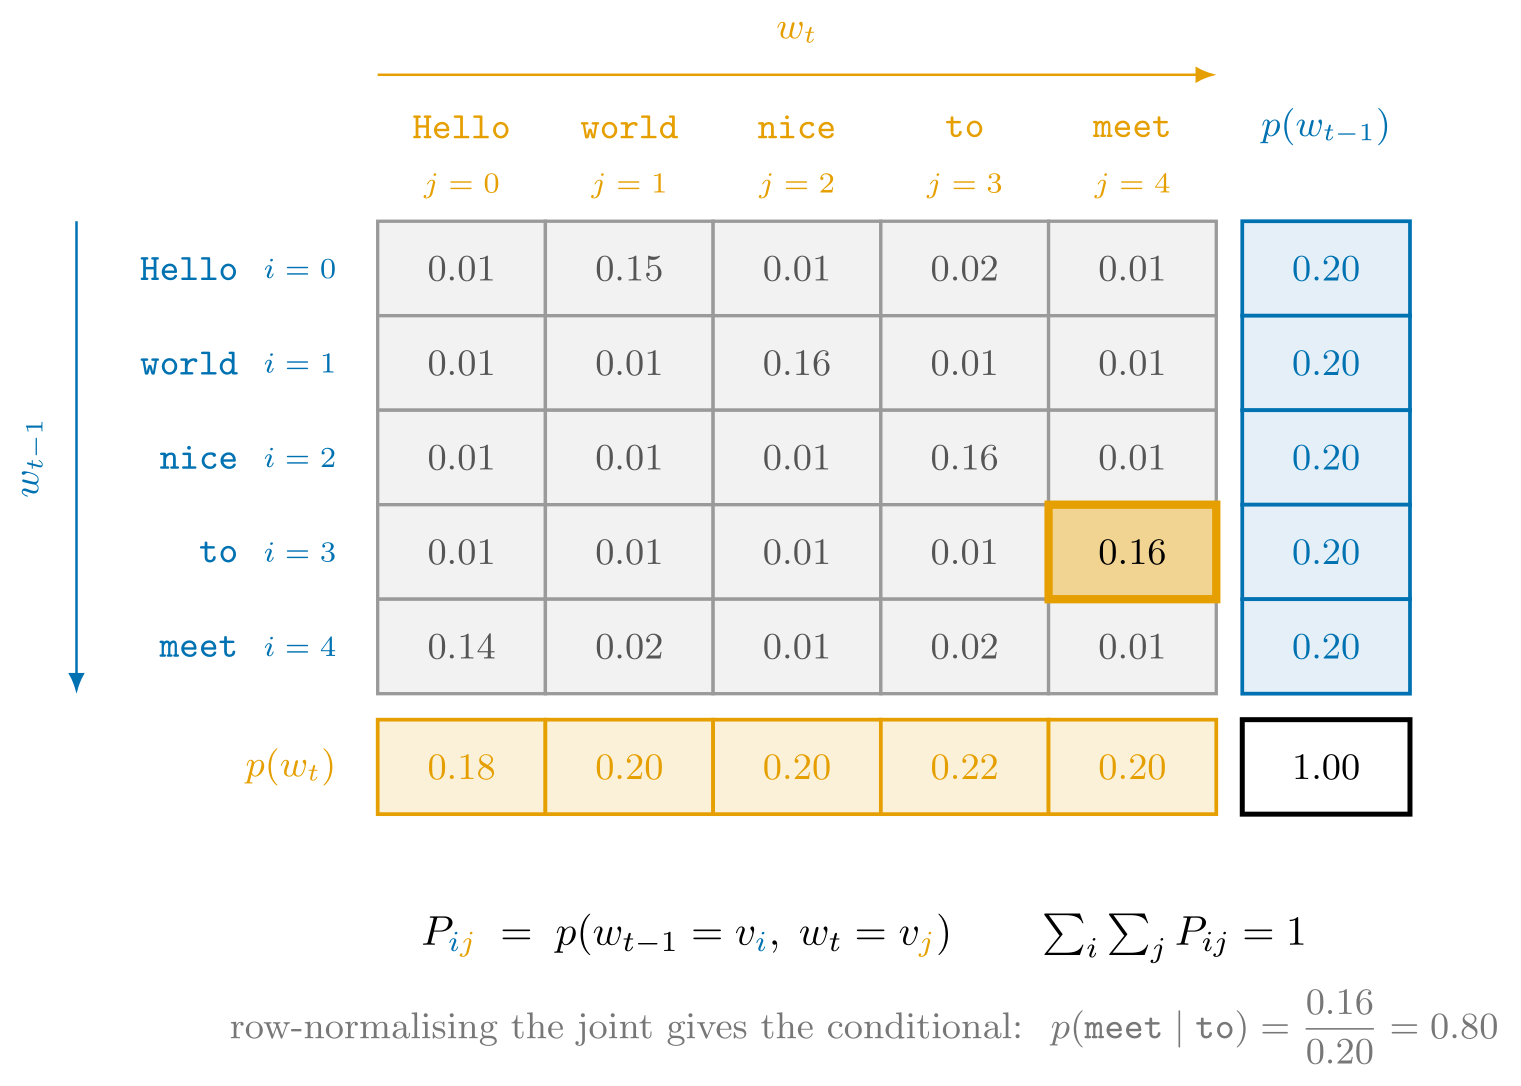
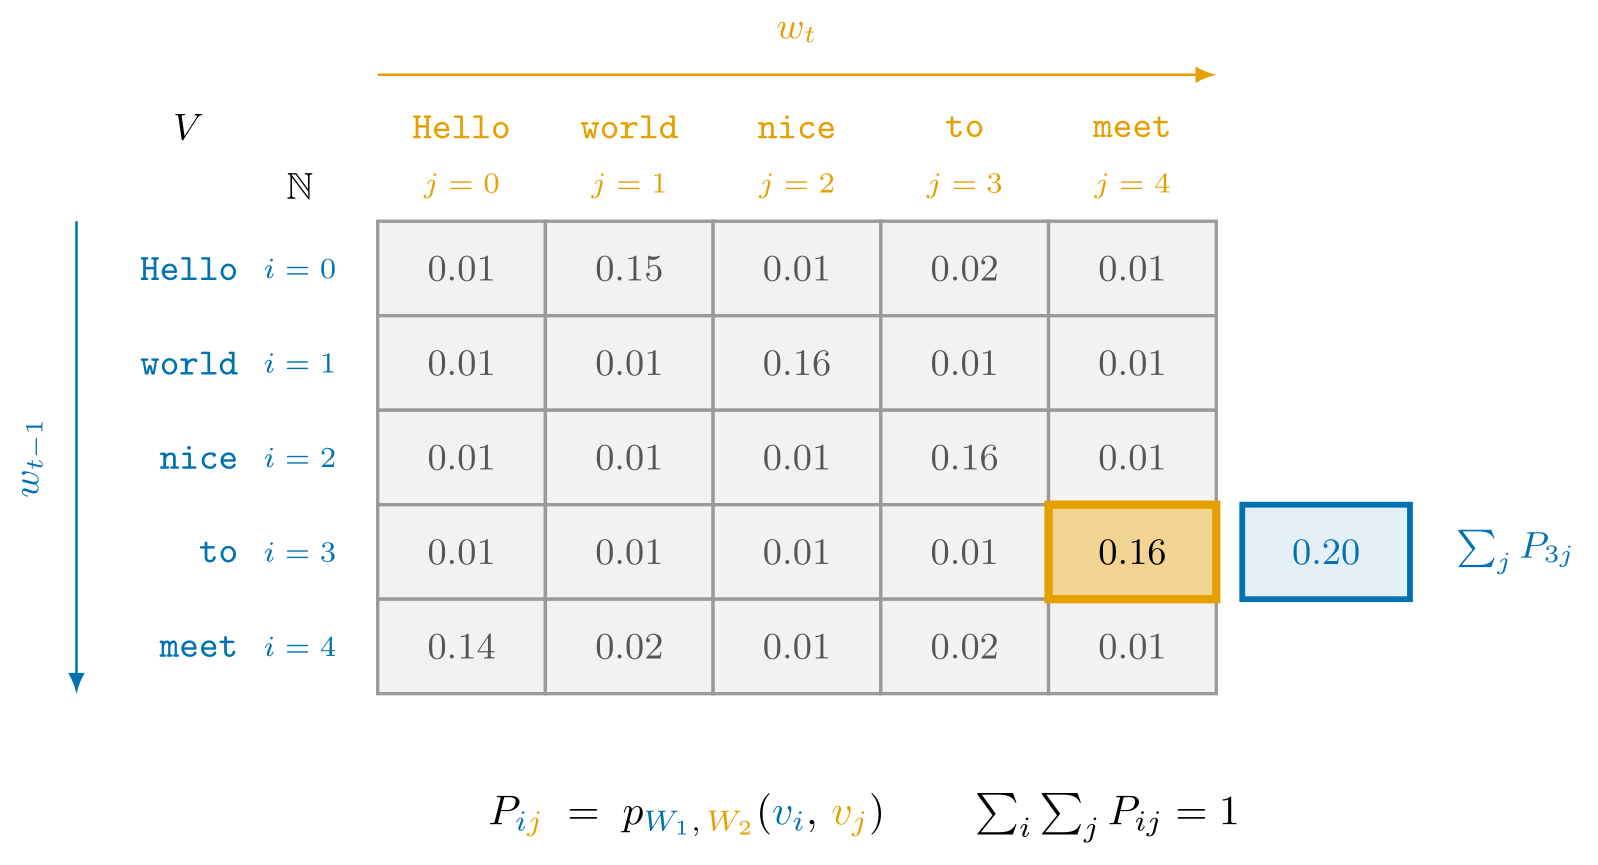
sitp: another pass to chapter 1.2.2 joint, marginal, and conditional

diff --git a/sitp/theme/css/custom.css b/sitp/theme/css/custom.css
@@ -755,16 +755,22 @@ html.ayu img.conditional {
   content: url("../../assets/conditional_dark.png");
 }
 
-html.coal img.jointsurf,
-html.navy img.jointsurf,
-html.ayu img.jointsurf {
-  content: url("../../assets/jointsurf_dark.png");
+html.coal img.jointbars,
+html.navy img.jointbars,
+html.ayu img.jointbars {
+  content: url("../../assets/jointbars_dark.png");
 }
 
 html.coal img.jointmatrix,
 html.navy img.jointmatrix,
 html.ayu img.jointmatrix {
   content: url("../../assets/jointmatrix_dark.png");
+}
+
+html.coal img.jointmatrixmarginal,
+html.navy img.jointmatrixmarginal,
+html.ayu img.jointmatrixmarginal {
+  content: url("../../assets/jointmatrixmarginal_dark.png");
 }
 
 html.coal img.neuron,

diff --git a/sitp/src/1.md b/sitp/src/1.md
@@ -492,15 +492,17 @@ In some sense that's all there is to large language models.
 
 - [1.2 Next Token Prediction is Classification](#12-next-token-prediction-is-classification)
   - [1.2.1 The Estimation of Software 2.0](#121-the-estimation-of-software-20)
-  - [1.2.2 Counting Markov Biased Histograms](#122-counting-markov-biased-histograms)
-  - [1.2.3 Some More on Maximum Likelihood Estimation](#133-optimizing-loss-with-iterative-reweighted-least-squares)
-  - [1.2.3 Prediction is Compression is Intelligence]()
-  - [1.2.4 Evaluation with Perplexity, and Bias-Variance Tradeoff]()
-  - [1.2.5 Further Viewing and Reading]()
+  - [1.2.2 The Joint, Marginal, and Conditional]()
+  - [1.2.3 Counting Markov Biased Histograms](#122-counting-markov-biased-histograms)
+  - [1.2.4 Some More on Maximum Likelihood Estimation](#133-optimizing-loss-with-iterative-reweighted-least-squares)
+  - [1.2.5 Prediction is Compression is Intelligence]()
+  - [1.2.6 Evaluation with Perplexity, and Bias-Variance Tradeoff]()
+  - [1.2.7 Further Viewing and Reading]()
 
 </div>
 
 #### 1.2.1 The Estimation of Software 2.0
+<small>[$\hookleftarrow$ Table of Contents (§1.2 Next Token Prediction is Classification)](#12-next-token-prediction-is-classification-and-compression)</small>
 
 <br>
 
@@ -625,8 +627,8 @@ Whatever you want to call them, at the heart of statical learning, machine learn
 <!-- > [!WARNING]
 > <img class="owl" src="./assets/owl.png" alt="" style="float: left; width: 100px; margin: 0 1em 0.5em 0;"> (todo, also add the two culture parsing/interpretation of the term.) Inference is an overloaded term, and hence ambiguous without context! In generative AI the term inference refers to the forward process of evaluating a population's distribution $p(w|\mathbf{h})$ in order to generate samples via prediction. In classical statistics the term inference refers to the backward process of inferring a population's distribution from observed samples (todo estimation and hypothesis testing). Unfortunately terminology and jargon is just like syntax with programming languages! You will need to adjust the meaning of symbols depending on the context, which to foreshadow is precisely what the attention mechanism behind GPT-2's transformer architecture ends up achieving. <br style="clear: both;"> -->
 
-#### 1.2.2 Counting Markov Biased Histograms
-
+#### 1.2.2 The Joint, Marginal, and Conditional
+<small>[$\hookleftarrow$ Table of Contents (§1.2 Next Token Prediction is Classification)](#12-next-token-prediction-is-classification-and-compression)</small>
 
 <br>
 
@@ -646,7 +648,7 @@ denotes the conditional probability of t+1'th word given the previous t words.
 Let us first start by generalizing the notion of a distribution from a *flat* array of real-valued numbers satisfying non-negativity and normalization to that of a *multidimensional* array with the same kind of values, known as a
 **joint distribution**<span class="defnote" data-refine="distribution">**joint distribution**</span> denoted by $p_{X_1, \dots, X_t}$ with type $p_{X_1, \dots, X_t}: \reals \times \cdots \times \reals \to [0,1]$ which maps the values of $t$ random variables to their probabilities<span class="sidenote-number"></span><span class="sidenote">*As we will see shortly, we use $t$ for time since language has a sequential order, given that $n$ already denotes the length of the dataset $d:=\{(x^{(i)}, y^{(i)})\}_{i=0}^{n}$. Naming is hard!*</span>. That is, evaluating $p_{X_1, \dots, X_t}(x_1, \dots, x_t)$ produces a *single* probability for random variable $X_1$ taking on the value $x_1$ *and* $X_2$ taking on the value $x_2$ *and* so on, up until the random variable $X_t$ taking on the value $x_t$ — the commas are read as "and" (todo, better explanation?). Because the joint can be a distribution of two random variables, three, up to an arbitrary t, it's often vectorized as $p_{\mathbf{X}}(\mathbf{x})$.
 
-In the case of (probabilistic) language modeling, the primary joint distribution of interest is the probability of a *fixed* t lengthed sentence occuring, which is $p_{W1,W2,\dots,W_t}(w_1,w_2,\dots,w_t)$ or $p(\mathbf{w})$  with $w \in \reals^{t}$, where the $W_i$'th random variable represents the $i$'th word in the $t$-lengthed sentence. For instance, $p(w_1=\text{Hello}, w_2=\text{nice}, w_3=\text{to}, w_4=\text{meet}, w_5=\text{you})$ is the probability of the complete sentence `"Hello nice to meet you"`.
+In the case of (probabilistic) language modeling, the primary joint distribution of interest is the probability of a *fixed* t lengthed sentence occuring, which is $p_{W1,W2,\dots,W_t}(w_1,w_2,\dots,w_t)$ or $p(\mathbf{w})$  with $w \in \reals^{t}$, where the $W_i$'th random variable represents the $i$'th word in the $t$-lengthed sentence. For instance, $p(w_1=\text{Hello}, w_2=\text{nice}, w_3=\text{to}, w_4=\text{meet}, w_5=\text{you})$ is the probability of the complete sentence `"Hello nice to meet you"` (todo, instead of distribution over words, it's a distribtion over sentences).
 
 > [!WARNING]
 > <img class="owl" src="./assets/owl.png" alt="" style="float: left; width: 100px; margin: 0 1em 0.5em 0;"> Note with the random variables being modeled the way they are (that is, *with* order) that the joint $p(w_1,\dots, w_t)$ is commutative. For instance, with $n:=2$, $p(\cin{w_1}, \cout{w_2}) = p(\cout{w_2},\cin{w_1})$. For instance, semantically speaking, $p(\cin{w_1}=\text{Hello},\cout{w_2}=\text{world})=p(\cout{w_2}=\text{world}, \cin{w_1}=\text{Hello})$ is saying that the probability of the first word being "hello" and the second word being "world" is equal to the probability of the second word being "world" and the first word being "hello". This holds more generally for any permutation of $w_1, w_2, \dots, w_t$. <br style="clear: both;">
@@ -672,49 +674,40 @@ In Figure 1.2.3, the surface on the left and the matrix on the right represent t
 
 <div class="full-bleed">
 <div class="dual">
-  <img class="jointsurf" src="./assets/jointsurf.png" alt="" style="display: block; margin: 0 auto;">
+  <img class="jointbars" src="./assets/jointbars.png" alt="" style="display: block; margin: 0 auto;">
   <img class="jointmatrix" src="./assets/jointmatrix.png" alt="" style="display: block; margin: 0 auto;">
 </div>
 </div>
 
 <small>Figure I.2.3</small>
 
-<!-- {{#nb 1.2_bigram.ipynb:10}} -->
+For a single random variable $W_i$, we can see that the truth of it's state is indeed distributed across the vocabulary $V$. For instance, scanning the <span class="okabe-blue">blue arrow from top to bottom</span>, we see that state of random variable $\cin{W_1}$ is distributed across five words. In particular, for one of those values $i=3$ which corresponds to $\text{to}$, it's state in of itself is distributed across $\cout{W_2}$ with the <span class="okabe-orange">orange arrow from left to right</span>. For instance, the chance of `"to meet"`should be more likely than `"to to"`.
+The code for this joint is the transliteration of the matrix from Figure I.2.3 into `np.ndarray` with `.shape`of `(5,5)` (todo, curry by indexing into first or second):
 
-For a single random variable $W_i$, we can see that the truth of it's state is indeed distributed across the vocabulary $V$. For instance, scanning the <span class="okabe-blue">blue arrow from top to bottom</span>, we see that state of random variable $\cin{W_1}$ is distributed across five words. In particular, for one of those values $i=0$ which corresponds to $\text{Hello}$, it's state in of itself is distributed across $\cout{W_2}$ with the <span class="okabe-orange">orange arrow from left to right</span>. For instance, the chance of `"Hello world"`should be more likely than `"Hello Hello"`.
+{{#nb 1.2_bigram.ipynb:8}}
 
 From this joint distribution of two random variables $p_{\cin{W_1}, \cout{W_2}}$, we can *recover* both distributions of single random variables $p_{\cin{W_1}}$ and $p_{\cout{W_2}}$.
-Consider again that second "level" of distribution. That is, the specific state of $W_1=\text{Hello}$ being distributed in of itself across the first row of the matrix. We can "take out" the randomness of $\cout{W_2}$ by *summing* all the entries in the first row, and are no longer have this second level or axis of state being distributed, and are simply left with $p_{\cin{W_1}}(\text{Hello})=0.2$. In general, for any $v_i$, we have that $p_{\cin{W_1}}({\cin{v_i}})=\sum\limits_{v_j \in V}p_{\cin{W_1}, \cout{W_2}}(\cin{v_i},\cout{v_j})$. Note that $\cin{v_i}$ is fixed! In the context of recovering a distribution of a single random variable *from* a joint distribution, such single random variable distribution is referred to as the **marginal distribution**<span class="defnote">**marginal distribution**</span>.
+Consider again that second "level" of distribution. That is, the specific state of $W_1=\text{Hello}$ being distributed in of itself across the first row of the matrix. We can "take out" the randomness of $\cout{W_2}$ by *summing* all the entries in the first row, and are no longer have this second level or axis of state being distributed, and are simply left with $p_{\cin{W_1}}(\text{to})=0.2$. In general, for any $v_i$, we have that $p_{\cin{W_1}}({\cin{v_i}})=\sum\limits_{v_j \in V}p_{\cin{W_1}, \cout{W_2}}(\cin{v_i},\cout{v_j})$. Note that $\cin{v_i}$ is fixed! In the context of recovering a distribution of a single random variable *from* a joint distribution, such single random variable distribution is referred to as the **marginal distribution**<span class="defnote">**marginal distribution**</span>.
 
+<img class="jointmatrixmarginal" src="./assets/jointmatrixmarginal.png" alt="" style="display: block; margin: 0 auto;">
 
-And because Figure I.2 is a table of numbers, it is also an `np.ndarray` with `.shape` `(V,V)`,
-where marginalizing is `.sum()` along an axis and conditioning is a division:
-
-<!-- {{#nb 1.2_bigram.ipynb:8}}
+(todo: generalize for $t$ randvars) [`torch.sum`](https://docs.pytorch.org/docs/2.13/generated/torch.sum.html#torch.sum)
 
 {{#nb 1.2_bigram.ipynb:9}}
 
-A table is not the only way to see it. Where a distribution over *one* variable plots as a
-curve over its state space — the bar chart of GPT-2's next-word distribution in
-[§1.1](#11-from-certain-to-uncertain-knowledge) — a distribution over *two* plots as a curve over a two dimensional
-state space, which is to say a surface. Conditioning on $\cin{H}=\cin{h}$ is then a *cut* through
-that surface: fix $w_{t-1}$, sweep $w_t$, and read off the height. What you get back is a curve
-over one variable again, and dividing it by $p_{\cin{H}}(\cin{h})$ is what makes it stand on its
-own as a distribution:
 
-{{#nb 1.2_bigram.ipynb:10}} -->
-
-
-<span class="defnote" data-refine="conditional-distribution">**conditional distribution**</span>?
+<span class="defnote" data-refine="conditional-distribution">**conditional distribution**</span>
 
 $$
-\underbrace{p_{\cout{W}|\cin{H}}(\cout{w}|\cin{h})}_{\text{conditional distribution}}\stackrel{\triangle}{=} \frac{\overbrace{p_{\cout{W},\cin{H}}(\cout{w},\cin{h})}^{\text{joint distribution}}} {\underbrace{p_{\cin{H}}(\cin{h})}_{\text{marginal distribution}}}
+\underbrace{p_{\cout{W}|\cin{H}}(\cout{w}|\cin{h})}_{\text{conditional}}\stackrel{\triangle}{=} \frac{\overbrace{p_{\cout{W},\cin{H}}(\cout{w},\cin{h})}^{\text{joint}}} {\underbrace{p_{\cin{H}}(\cin{h})}_{\text{marginal}}}
 $$
 
-so, the conditional is defined as the joint over the marginal distribution that is being conditioned on.
+so, the conditional is defined as the joint over the marginal distribution that is being conditioned on. **chain rule**<span class="defnote">**chain rule**</span> **product rule**<span class="defnote">**product rule**</span> (decomposing a joint of sentences with a chain of conditionals over words requires proof (ntermezzo).)
 
 
 
+#### 1.2.3 Counting Markov Biased Histograms
+<small>[$\hookleftarrow$ Table of Contents (§1.2 Next Token Prediction is Classification)](#12-next-token-prediction-is-classification-and-compression)</small>
 
 - (todo, explain data d)
 - simplest idea: unbiased estimator count the relative frequency (which is the MLE) $\frac{h, w}{h}$
@@ -752,7 +745,9 @@ Rather than strive for perfection, we can achieve the good by introducing some *
 
 {{#nb 1.2_bigram.ipynb:7}}
 
-#### 1.2.3 Some More on Maximum Likelihood Estimation
+
+#### 1.2.4 Some More on Maximum Likelihood Estimation
+<small>[$\hookleftarrow$ Table of Contents (§1.2 Next Token Prediction is Classification)](#12-next-token-prediction-is-classification-and-compression)</small>
 
 concepts
 - bernouilli
@@ -771,7 +766,8 @@ concepts
   ](https://youtu.be/utFEufMXHgw?t=435)
 </div> -->
 
-#### 1.2.4 Prediction is Compression is Intelligence
+#### 1.2.5 Prediction is Compression is Intelligence
+<small>[$\hookleftarrow$ Table of Contents (§1.2 Next Token Prediction is Classification)](#12-next-token-prediction-is-classification-and-compression)</small>
 
 <div class="full-bleed">
 <iframe height="500px" loading="lazy" src="https://www.youtube.com/embed/l6DKRf-fAAM?si=4Ee7_pRjZfLteRs2"  title="YouTube video player" frameborder="0" allow="accelerometer; autoplay; clipboard-write; encrypted-media; gyroscope; picture-in-picture; web-share" referrerpolicy="strict-origin-when-cross-origin" allowfullscreen></iframe>
@@ -787,7 +783,8 @@ concepts
 
 
 
-#### 1.2.5 Evaluation with Perplexity, and Bias-Variance Tradeoff
+#### 1.2.6 Evaluation with Perplexity, and Bias-Variance Tradeoff
+<small>[$\hookleftarrow$ Table of Contents (§1.2 Next Token Prediction is Classification)](#12-next-token-prediction-is-classification-and-compression)</small>
 
 ### 1.3 Parameterizing Classifcation with Logistic Regression
 <small>[$\hookleftarrow$ Table of Contents](#table-of-contents)</small>
